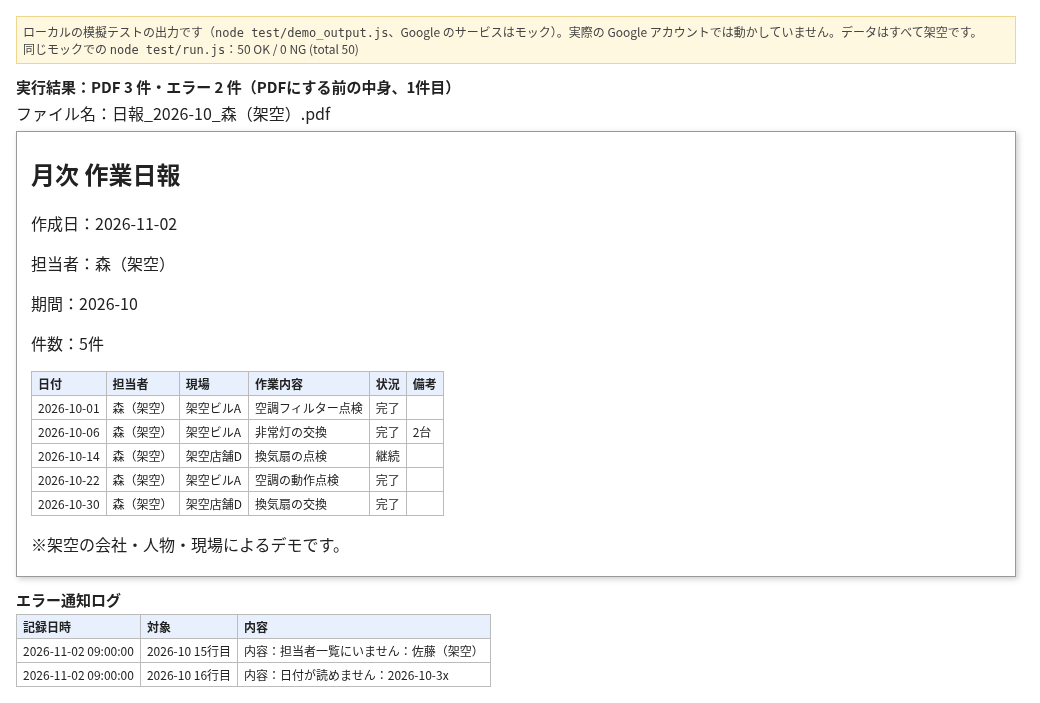
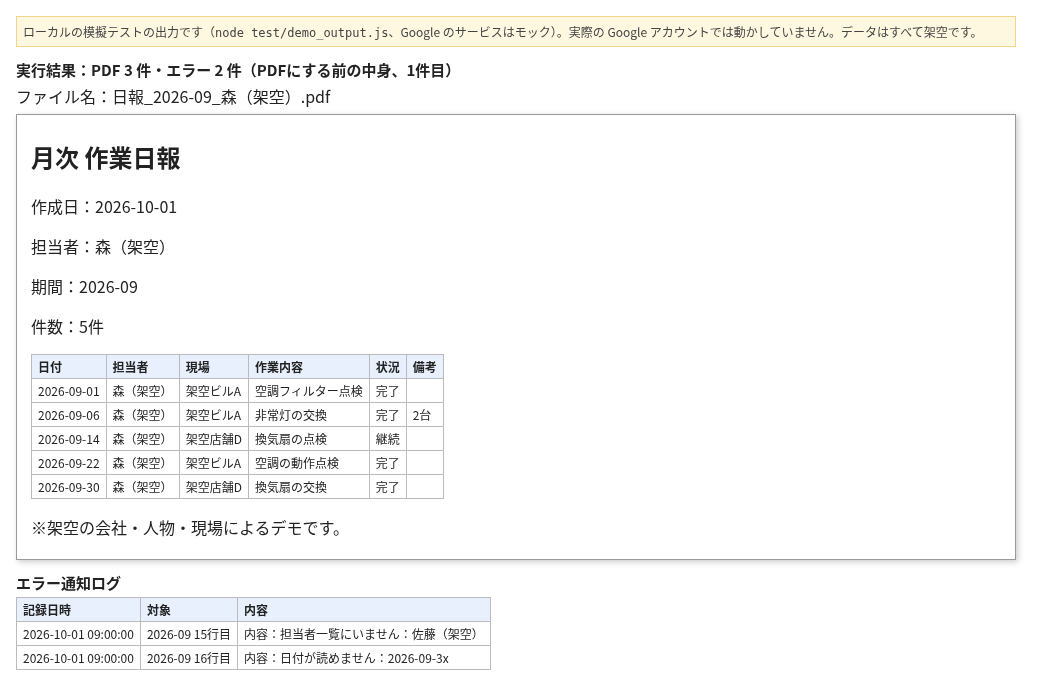
Demo dates in the past, daytime mail times, R-1007 note, README review fixes

Changed region(s): [[0.0, 0.0306, 0.9846, 0.9796]]

diff --git a/test/run.js b/test/run.js
@@ -3,7 +3,7 @@ var fs = require('fs'), path = require('path'), vm = require('vm');
 var mock = require('./mock_apis.js');
 var B = path.join(__dirname, '..', 'src');
 var FILES = ['Common.gs', 'Config.gs', 'SeedData.gs', 'Notify.gs', 'Pdf.gs', 'Code.gs'];
-var T0 = Date.UTC(2026, 10, 2, 0, 0, 0); // 2026-11-02 09:00 JST
+var T0 = Date.UTC(2026, 9, 1, 0, 0, 0); // 2026-10-01 09:00 JST
 var res = [];
 function ok(name, cond, detail) { res.push(!!cond); console.log((cond ? '[OK] ' : '[NG] ') + name + (cond || !detail ? '' : ' - ' + detail)); }
 function env(nowMs) {
@@ -23,33 +23,33 @@ function table(e, f) { return (docOf(e, f).html.match(/<tr>.*?<\/tr>/g) || []).m
 
 (function () {
   var e = env();
-  ok('R01 期間の指定は先月（2026-10）', e.ctx.lastMonth_() === '2026-10');
+  ok('R01 期間の指定は先月（2026-09）', e.ctx.lastMonth_() === '2026-09');
   var r = e.ctx.makeLastMonth();
   ok('R02 結果：作成3・エラー2（日報が無い大野はPDFなし）', r.ok && r.made === 3 && r.errors === 2 && r.skipped === 0, JSON.stringify(r));
   ok('R03 PDFは3つ', pdfs(e).length === 3);
-  ok('R04 ファイル名は 日報_期間_担当者.pdf', pdfs(e).map(function (f) { return f.meta.name; }).sort().join() === ['日報_2026-10_川上（架空）.pdf', '日報_2026-10_林（架空）.pdf', '日報_2026-10_森（架空）.pdf'].sort().join());
+  ok('R04 ファイル名は 日報_期間_担当者.pdf', pdfs(e).map(function (f) { return f.meta.name; }).sort().join() === ['日報_2026-09_川上（架空）.pdf', '日報_2026-09_林（架空）.pdf', '日報_2026-09_森（架空）.pdf'].sort().join());
   var fs_ = folders(e), root = fs_.filter(function (f) { return !f.meta.parents; });
   ok('R05 親フォルダ1つ＋担当者フォルダ3つ', root.length === 1 && fs_.length === 4 && root[0].meta.name === '日報PDF（架空デモ）');
   var byName = {}; fs_.forEach(function (f) { byName[f.meta.name] = f.id; });
   ok('R06 担当者フォルダは親フォルダの中', fs_.filter(function (f) { return f.meta.parents; }).every(function (f) { return f.meta.parents[0] === root[0].id; }));
-  ok('R07 各PDFは本人のフォルダに保存', pdfs(e).every(function (f) { return !!f.meta.parents && f.meta.parents[0] === byName[f.meta.name.replace(/^日報_2026-10_|\.pdf$/g, '')]; }));
+  ok('R07 各PDFは本人のフォルダに保存', pdfs(e).every(function (f) { return !!f.meta.parents && f.meta.parents[0] === byName[f.meta.name.replace(/^日報_2026-09_|\.pdf$/g, '')]; }));
   var mori = pdfs(e).filter(function (f) { return /森/.test(f.meta.name); })[0];
   var t = table(e, mori);
-  ok('R08 森の表：見出し＋10月の5件（9月分は入らない）', t.length === 6 && t.slice(1).every(function (x) { return x[0].slice(0, 7) === '2026-10' && x[1] === '森（架空）'; }), JSON.stringify(t));
-  ok('R09 日付順に並ぶ', t.slice(1).map(function (x) { return x[0]; }).join() === '2026-10-01,2026-10-06,2026-10-14,2026-10-22,2026-10-30');
-  ok('R10 他の人の行は入らない', pdfs(e).every(function (f) { var n = f.meta.name.replace(/^日報_2026-10_|\.pdf$/g, ''); return table(e, f).slice(1).every(function (x) { return x[1] === n; }); }));
+  ok('R08 森の表：見出し＋9月の5件（8月分は入らない）', t.length === 6 && t.slice(1).every(function (x) { return x[0].slice(0, 7) === '2026-09' && x[1] === '森（架空）'; }), JSON.stringify(t));
+  ok('R09 日付順に並ぶ', t.slice(1).map(function (x) { return x[0]; }).join() === '2026-09-01,2026-09-06,2026-09-14,2026-09-22,2026-09-30');
+  ok('R10 他の人の行は入らない', pdfs(e).every(function (f) { var n = f.meta.name.replace(/^日報_2026-09_|\.pdf$/g, ''); return table(e, f).slice(1).every(function (x) { return x[1] === n; }); }));
   var d = docOf(e, mori);
-  ok('R11 見出しの下に担当者・期間・件数', d.html.indexOf('<p>件数：5件</p>') > 0 && d.html.indexOf('<p>担当者：森（架空）</p>') > 0 && d.html.indexOf('<p>期間：2026-10</p>') > 0);
+  ok('R11 見出しの下に担当者・期間・件数', d.html.indexOf('<p>件数：5件</p>') > 0 && d.html.indexOf('<p>担当者：森（架空）</p>') > 0 && d.html.indexOf('<p>期間：2026-09</p>') > 0);
   ok('R12 作業用ドキュメントは削除、PDFは残る', pdfs(e).every(function (f) { return docOf(e, f).removed === true && !f.removed; }));
   var sd = rows(e, '送信予定');
-  ok('R22 送信予定は3行・宛先は担当者・状態は未送信（記録のみ）', sd.length === 3 && sd.every(function (x) { return x[1] === '2026-10' && /（架空）$/.test(x[2]) && x[3] === '2026-10 の月次日報（PDF）' && x[6] === '未送信（記録のみ）'; }), JSON.stringify(sd));
+  ok('R22 送信予定は3行・宛先は担当者・状態は未送信（記録のみ）', sd.length === 3 && sd.every(function (x) { return x[1] === '2026-09' && /（架空）$/.test(x[2]) && x[3] === '2026-09 の月次日報（PDF）' && x[6] === '未送信（記録のみ）'; }), JSON.stringify(sd));
   ok('R23 送信予定のファイルIDは作ったPDFと一致', sd.every(function (x) { return pdfs(e).some(function (f) { return f.meta.name === x[4] && e.w.files[x[5]] === f; }); }));
   var st = rows(e, '担当者');
   ok('R13 担当者シートにフォルダIDを記録（大野は空のまま）', st.filter(function (x) { return x[1]; }).length === 3 && st.filter(function (x) { return x[0] === '大野（架空）'; })[0][1] === '');
-  ok('R14 作成記録は3行', rows(e, '作成記録').length === 3 && rows(e, '作成記録').every(function (x) { return x[0] === '2026-10'; }));
+  ok('R14 作成記録は3行', rows(e, '作成記録').length === 3 && rows(e, '作成記録').every(function (x) { return x[0] === '2026-09'; }));
   var log = rows(e, 'エラー通知ログ');
   ok('R15 担当者一覧にいない人はエラー通知ログへ', log.some(function (x) { return /担当者一覧にいません：佐藤（架空）/.test(x[3]); }));
-  ok('R16 日付が読めない行はエラー通知ログへ', log.some(function (x) { return /日付が読めません：2026-10-3x/.test(x[3]); }));
+  ok('R16 日付が読めない行はエラー通知ログへ', log.some(function (x) { return /日付が読めません：2026-09-3x/.test(x[3]); }));
   ok('R17 通知の宛先は管理者（架空）・記録だけ', log.length === 2 && log.every(function (x) { return x[2] === '管理者（架空）'; }));
 
   var r2 = e.ctx.makeLastMonth();
@@ -57,32 +57,32 @@ function table(e, f) { return (docOf(e, f).html.match(/<tr>.*?<\/tr>/g) || []).m
   ok('R19 2回目でフォルダが増えない', folders(e).length === 4);
   ok('R24 2回目で送信予定が増えない', rows(e, '送信予定').length === 3);
   ok('R20 2回目でエラー通知が増えない', rows(e, 'エラー通知ログ').length === 2 && r2.errors === 0);
-  var r3 = e.ctx.makeReports('2026-09');
-  ok('R21 別の期間（9月）は森の1件だけ・同じフォルダに入る', r3.made === 1 && r3.files[0].rows === 1 && r3.files[0].folderId === byName['森（架空）'] && folders(e).length === 4, JSON.stringify(r3));
+  var r3 = e.ctx.makeReports('2026-08');
+  ok('R21 別の期間（8月）は森の1件だけ・同じフォルダに入る', r3.made === 1 && r3.files[0].rows === 1 && r3.files[0].folderId === byName['森（架空）'] && folders(e).length === 4, JSON.stringify(r3));
 })();
 
 (function () {
   var e = env(); e.ctx.APP_CONFIG.maxPerRun = 2;
-  var r = e.ctx.makeReports('2026-10');
+  var r = e.ctx.makeReports('2026-09');
   ok('B01 1回の上限2：2つ作って残り1は次回', r.made === 2 && r.pending === 1, JSON.stringify(r));
-  var r2 = e.ctx.makeReports('2026-10');
+  var r2 = e.ctx.makeReports('2026-09');
   ok('B02 次の実行で続きの1つだけ作る', r2.made === 1 && r2.skipped === 2 && r2.pending === 0 && pdfs(e).length === 3, JSON.stringify(r2));
 })();
 
 (function () {
   var e = env(); e.w.props[e.ctx.pdfDailyKey_()] = String(e.ctx.APP_CONFIG.pdf.dailyLimit);
-  var r = e.ctx.makeReports('2026-10');
+  var r = e.ctx.makeReports('2026-09');
   ok('B03 1日の上限に達したら止めて記録', r.ok === false && r.code === 'ERROR' && rows(e, 'エラー通知ログ').some(function (x) { return /上限/.test(x[3]); }) && pdfs(e).length === 0);
-  var threw = false; try { e.ctx.makeReports('2026/10'); } catch (err) { threw = true; }
+  var threw = false; try { e.ctx.makeReports('2026/09'); } catch (err) { threw = true; }
   ok('B04 期間の形が違えば止まる', threw);
   e.w.lockBusy = true;
-  ok('B05 実行中なら BUSY', e.ctx.makeReports('2026-10').code === 'BUSY');
+  ok('B05 実行中なら BUSY', e.ctx.makeReports('2026-09').code === 'BUSY');
 })();
 
 (function () {
   var e = env();
-  e.w.sheets['日報'].appendRow(['2026-10-31', '林（架空）', "'=IMPORTRANGE(\"x\")", '点検', '完了', '']);
-  e.ctx.makeReports('2026-10');
+  e.w.sheets['日報'].appendRow(['2026-09-30', '林（架空）', "'=IMPORTRANGE(\"x\")", '点検', '完了', '']);
+  e.ctx.makeReports('2026-09');
   var hayashi = pdfs(e).filter(function (f) { return /林/.test(f.meta.name); })[0];
   ok('B06 = で始まる値は文字のまま表へ（数式にならない）', table(e, hayashi).some(function (x) { return x[2] === '=IMPORTRANGE("x")'; }));
   ok('B07 ファイル名に使えない文字は _ に', e.ctx.safeFileName_('a/b:c') === 'a_b_c');
@@ -92,21 +92,21 @@ function table(e, f) { return (docOf(e, f).html.match(/<tr>.*?<\/tr>/g) || []).m
 
 (function () {
   var e = env(); e.w.exportFail = true;
-  var r = e.ctx.makeReports('2026-10');
+  var r = e.ctx.makeReports('2026-09');
   var docs = Object.keys(e.w.docs).map(function (k) { return e.w.docs[k]; });
   ok('B09 PDFにできないとき：止めて記録・作業用ドキュメントは削除・送信予定は入らない', r.ok === false && pdfs(e).length === 0 && docs.length === 1 && docs[0].removed === true && rows(e, '送信予定').length === 0 && rows(e, 'エラー通知ログ').some(function (x) { return /export/.test(x[3]); }), JSON.stringify(r));
   e.w.exportFail = false;
-  var r2 = e.ctx.makeReports('2026-10');
+  var r2 = e.ctx.makeReports('2026-09');
   ok('B10 直った次の実行で3つ作り、送信予定も3行', r2.made === 3 && rows(e, '送信予定').length === 3, JSON.stringify(r2));
 })();
 
 (function () {
   var e = env(); e.w.exportBytes = 200;
-  var r = e.ctx.makeReports('2026-10');
+  var r = e.ctx.makeReports('2026-09');
   var docs = Object.keys(e.w.docs).map(function (k) { return e.w.docs[k]; });
   ok('B09b 中身が無いようなごく小さいPDF：保存せず止めて記録・作業用は削除・送信予定なし', r.ok === false && pdfs(e).length === 0 && docs.length === 1 && docs[0].removed === true && rows(e, '送信予定').length === 0 && rows(e, 'エラー通知ログ').some(function (x) { return /小さすぎ/.test(x[3]); }), JSON.stringify(r));
   e.w.exportBytes = null;
-  ok('B10b 直った次の実行で3つ作れる', e.ctx.makeReports('2026-10').made === 3);
+  ok('B10b 直った次の実行で3つ作れる', e.ctx.makeReports('2026-09').made === 3);
 })();
 
 (function () {
@@ -131,8 +131,8 @@ function table(e, f) { return (docOf(e, f).html.match(/<tr>.*?<\/tr>/g) || []).m
   ok('K01 書式なしで手で作ったシートでも、作成日時は0埋めの文字（yyyy-MM-dd HH:mm:ss）で入る', v.length >= 1 && v.every(function (x) { return typeof x === 'string' && /^\d{4}-\d{2}-\d{2} \d{2}:\d{2}:\d{2}$/.test(x); }), JSON.stringify(v));
 })();
 (function () {
-  var e = env(Date.UTC(2026, 11, 10, 0, 0, 0)); var r = e.ctx.makeDemoMonth();
-  ok('K03 makeDemoMonth は今日の日付に関係なく 2026-10 の日報PDFを3つ作る', rows(e, '作成記録').length === 3 && rows(e, '作成記録').every(function (x) { return x[0] === '2026-10'; }), JSON.stringify(r));
+  var e = env(Date.UTC(2026, 7, 10, 0, 0, 0)); var r = e.ctx.makeDemoMonth();
+  ok('K03 makeDemoMonth は今日の日付に関係なく 2026-09 の日報PDFを3つ作る', rows(e, '作成記録').length === 3 && rows(e, '作成記録').every(function (x) { return x[0] === '2026-09'; }), JSON.stringify(r));
 })();
 
 (function () {

diff --git a/test/demo_output.js b/test/demo_output.js
@@ -4,7 +4,7 @@ var fs = require('fs'), path = require('path'), vm = require('vm');
 var mock = require('./mock_apis.js');
 var B = path.join(__dirname, '..', 'src');
 var FILES = ['Common.gs', 'Config.gs', 'SeedData.gs', 'Notify.gs', 'Pdf.gs', 'Code.gs'];
-var b = mock.buildMockGlobals({ nowMs: Date.UTC(2026, 10, 2, 0, 0, 0), docs: true });
+var b = mock.buildMockGlobals({ nowMs: Date.UTC(2026, 9, 1, 0, 0, 0), docs: true });
 var ctx = vm.createContext(b.globals);
 FILES.forEach(function (f) { vm.runInContext(fs.readFileSync(path.join(B, f), 'utf8'), ctx, { filename: f }); });
 ctx.resetDemo();

diff --git a/README.md b/README.md
@@ -4,7 +4,7 @@
 
 ![担当者のPDFにする前の中身とエラー通知ログ（模擬テストの出力、架空データ）](docs/local_test_output.png)
 
-架空の10月分の日報から3人分のPDFを作り、担当者一覧にない人と読めない日付の2行をエラー通知ログに残した結果です。画像は1人目の中身です。上の画像は、ローカルの模擬テスト（`node test/demo_output.js`、Google のサービスはモック）の実際の出力から作りました。実際の Google アカウントでは動かしていません。
+2026-10-01 に作った想定で、架空の9月分の日報から3人分のPDFを作り、担当者一覧にない人と読めない日付の2行をエラー通知ログに残した結果です。画像は1人目の中身です。上の画像は、ローカルの模擬テスト（`node test/demo_output.js`、Google のサービスはモック）の実際の出力から作りました。実際の Google アカウントでは動かしていません。
 
 **効果：** 担当者ごとに手で分けてPDFにしていた作業が、メニューを1回押すだけで全員分そろいます。
 
